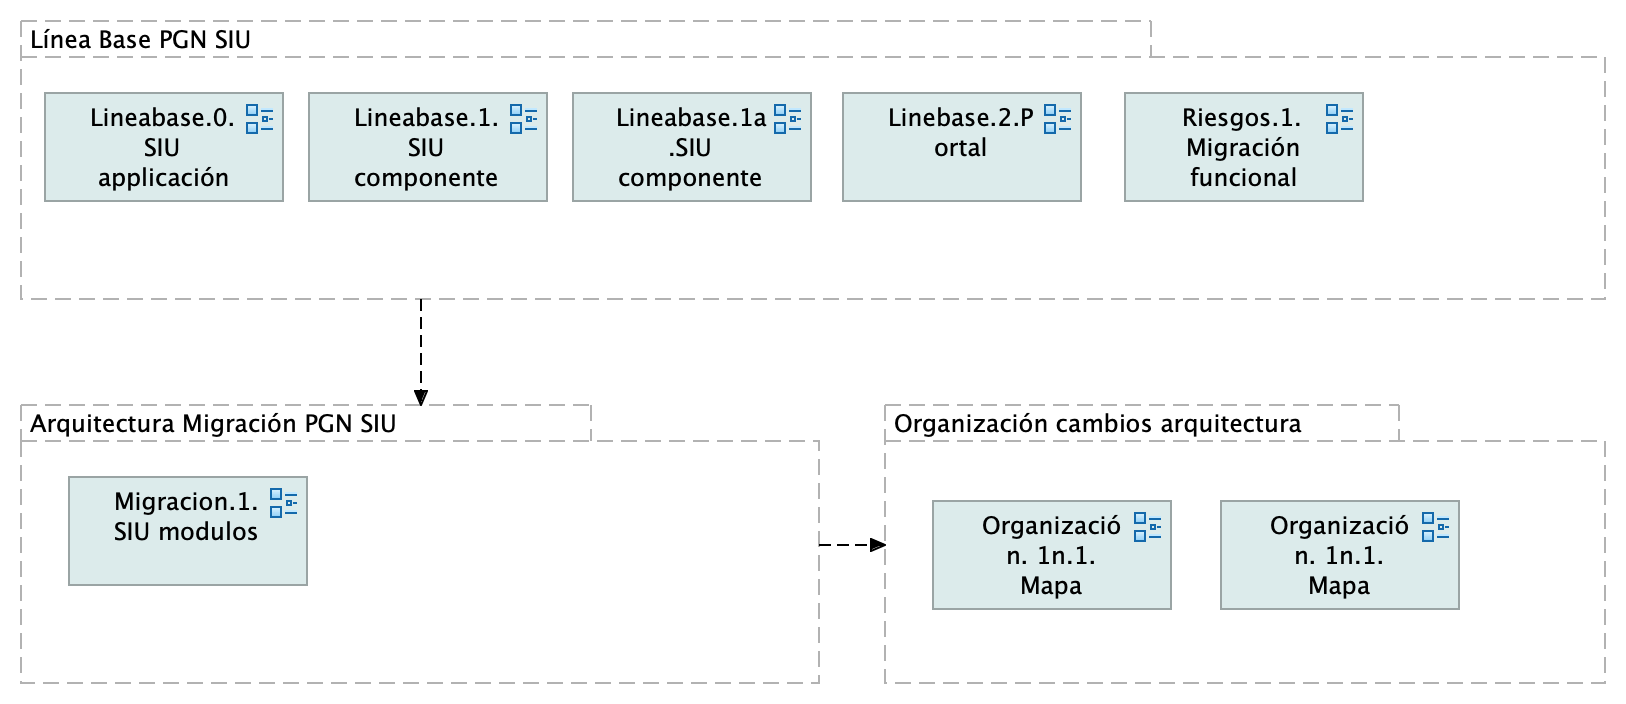
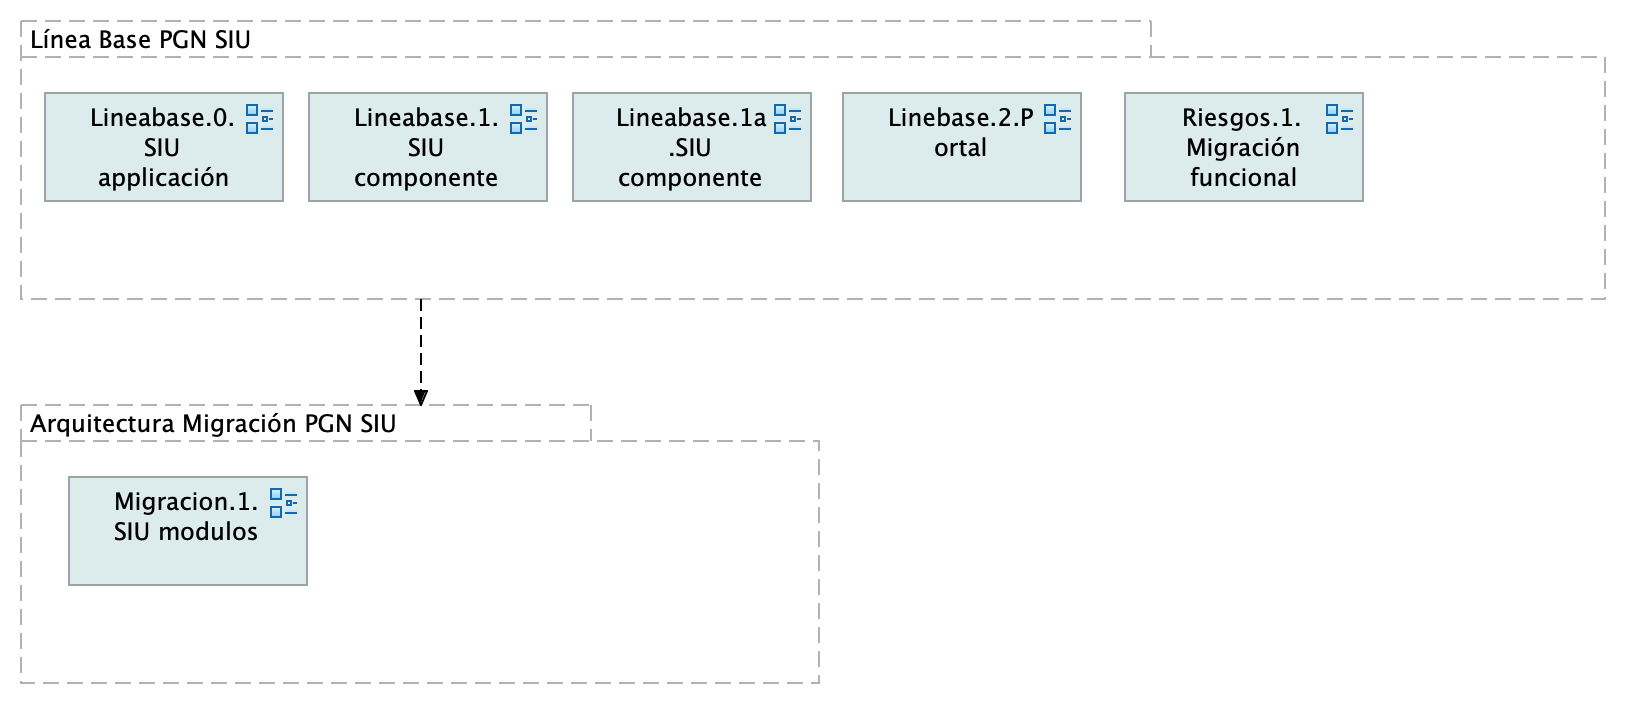
html

Changed region(s): [[0.5228, 0.6875, 0.9225, 0.875], [0.5535, 0.5938, 0.7995, 0.625]]

diff --git a/id-6a1303f9965b41ffa23b214651da8ebe/views/id-8529b704aafa4c9caf3ab4d087c54c5b.html b/id-6a1303f9965b41ffa23b214651da8ebe/views/id-8529b704aafa4c9caf3ab4d087c54c5b.html
@@ -34,12 +34,6 @@
 		    <!-- If this is a digram model (has children and no bounds) show the image -->
 			   <img class="diagram" src="../images/id-8529b704aafa4c9caf3ab4d087c54c5b.png" alt="Documento de Arquitectura Migración SIU" usemap="#id-8529b704aafa4c9caf3ab4d087c54c5bmap"/>
 			   <map name="id-8529b704aafa4c9caf3ab4d087c54c5bmap">
-				  				<area shape="rect" coords="1220,500,1460,610" href="../views/id-2dff7e836da042a9a55c3c635828070e.html"  target="view">
-				  		    <!-- Other diagram objects -->
-				  				<area shape="rect" coords="932,500,1172,610" href="../views/id-2dff7e836da042a9a55c3c635828070e.html"  target="view">
-				  		    <!-- Other diagram objects -->
-
-				  		<area shape="rect" coords="884,404,1606,684" href="../elements/id-0e4a249c7944477e88692b5e7534a9c8.html"  target="element">
 				  				<area shape="rect" coords="68,476,308,586" href="../views/id-6dcada718c1446f69884dc7418828c51.html"  target="view">
 				  		    <!-- Other diagram objects -->
 
@@ -147,24 +141,6 @@
 											    <!-- Other graphical objects -->
 
 											
-											<tr>
-											    <td> <a href="../elements/id-0e4a249c7944477e88692b5e7534a9c8.html" target="element"> Organizaci&#243;n cambios arquitectura </a> </td>
-											    <td> <a href="../elements/id-0e4a249c7944477e88692b5e7534a9c8.html" target="element" class="i18n-elementtype-Grouping"> </a> </td>
-											</tr>
-
-													<tr>
-													    <td> <a href="../views/id-2dff7e836da042a9a55c3c635828070e.html" target="view"> Organización. 1n.1. Mapa producto PGN. Relatoría </a> </td>
-													    <td> <a href="../views/id-2dff7e836da042a9a55c3c635828070e.html" target="view" class="i18n-viewpoint-"> </a> </td>
-													</tr>
-											    <!-- Other graphical objects -->
-
-													<tr>
-													    <td> <a href="../views/id-2dff7e836da042a9a55c3c635828070e.html" target="view"> Organización. 1n.1. Mapa producto PGN. Relatoría </a> </td>
-													    <td> <a href="../views/id-2dff7e836da042a9a55c3c635828070e.html" target="view" class="i18n-viewpoint-"> </a> </td>
-													</tr>
-											    <!-- Other graphical objects -->
-
-											
 
 								</tbody>
 							</table>
@@ -193,16 +169,6 @@
 													<!-- DEBUG: Skipping element from class com.archimatetool.model.impl.DiagramModelReference -->
 													<!-- DEBUG: Skipping element from class com.archimatetool.model.impl.DiagramModelReference -->
 											
-																	<tr>
-																		<td> <a href="../elements/id-c5b22b9ef4c548a686b307b818b60eb3.html" target="element">  </a> </td>
-																		<td> <a href="../elements/id-c5b22b9ef4c548a686b307b818b60eb3.html" target="element" class="i18n-elementtype-FlowRelationship"></a> </td>
-																		<td> <a href="../elements/id-86cf62dcda0447b78fd8e5946212edfc.html" target="element"> Arquitectura Migraci&#243;n PGN SIU </a> </td>
-																		<td> <a href="../elements/id-0e4a249c7944477e88692b5e7534a9c8.html" target="element"> Organizaci&#243;n cambios arquitectura </a> </td>
-																	</tr>
-
-													<!-- DEBUG: Skipping element from class com.archimatetool.model.impl.DiagramModelReference -->
-											
-													<!-- DEBUG: Skipping element from class com.archimatetool.model.impl.DiagramModelReference -->
 													<!-- DEBUG: Skipping element from class com.archimatetool.model.impl.DiagramModelReference -->
 											
 

diff --git a/id-6a1303f9965b41ffa23b214651da8ebe/elements/model.html b/id-6a1303f9965b41ffa23b214651da8ebe/elements/model.html
@@ -100,7 +100,7 @@ versi&#243;n 0.1
 						 	var dataFolders = [ ];
 						 	var dataFoldersContent = [ ];
 
-							dataFolders.push({id:"id-6a1303f9965b41ffa23b214651da8ebe", type:"DBArchimateModel", name:decodeURL("PGN-078"), documentation:decodeURL("")});
+							dataFolders.push({id:"id-6a1303f9965b41ffa23b214651da8ebe", type:"ArchimateModel", name:decodeURL("PGN-078"), documentation:decodeURL("")});
 								dataFoldersContent.push({folderid:"id-6a1303f9965b41ffa23b214651da8ebe", contentid:"id-c583db99ab314cc0bbe51d158401fb63", contenttype:"Folder"});
 								dataFolders.push({id:"id-c583db99ab314cc0bbe51d158401fb63", type:"Folder", name:decodeURL("Strategy"), documentation:decodeURL("")});
 									dataFoldersContent.push({folderid:"id-c583db99ab314cc0bbe51d158401fb63", contentid:"id-d254dad2ea664b798030c3d91c7fc8ed", contenttype:"Capability"});
@@ -1995,7 +1995,7 @@ versi&#243;n 0.1
 
 
 									dataFoldersContent.push({folderid:"id-0ee4bc0b58684894a78c5efa8b45c7f4", contentid:"id-280f63efee9b49e892eb38e7104d2d85", contenttype:"ArchimateDiagramModel"});
-										dataViews.push({id:"id-280f63efee9b49e892eb38e7104d2d85", type:"ArchimateDiagramModel", name:decodeURL("Seguridad.+Lineabase.0.SIU+applicaci%C3%B3n"), documentation:decodeURL("%23+Representaci%C3%B3n+Arquitect%C3%B3nica%0ACon+una+arquitectura+orientada+a+servicios+SUI+recopila%3A%0A%0A1.+Runtime%3A+Es+el+servicio+que+interact%C3%BAa+con+el+usuario+final+%28GUI%29+elaborado+en+Angular+11%0A1.+API+Tx%3A+Servicio+api+rest+base+node+encargado+de+realizar+las+transacciones+b%C3%A1sicas+CRUD%0A1.+API+Config+%2F+Seguridad.+Servicio+Web+API+.Net+Framework+encargado+de+gestionar+caracter%C3%ADsticas+con+la+autenticaci%C3%B3n+y+configuraci%C3%B3n%0A%0A%0A")});
+										dataViews.push({id:"id-280f63efee9b49e892eb38e7104d2d85", type:"ArchimateDiagramModel", name:decodeURL("Seguridad.+Lineabase.0.SIU+applicaci%C3%B3n"), documentation:decodeURL("%23%23+Representaci%C3%B3n+Arquitect%C3%B3nica%0ACon+una+arquitectura+orientada+a+servicios+SUI+recopila%3A%0A%0A1.+Runtime%3A+Es+el+servicio+que+interact%C3%BAa+con+el+usuario+final+%28GUI%29+elaborado+en+Angular+11%0A1.+API+Tx%3A+Servicio+api+rest+base+node+encargado+de+realizar+las+transacciones+b%C3%A1sicas+CRUD%0A1.+API+Config+%2F+Seguridad.+Servicio+Web+API+.Net+Framework+encargado+de+gestionar+caracter%C3%ADsticas+con+la+autenticaci%C3%B3n+y+configuraci%C3%B3n%0A%0A%0A")});
 												dataViewsContent.push({viewid:"id-280f63efee9b49e892eb38e7104d2d85", contentid:"id-57f66661f97140a6a4938a70315ad2ed", contenttype:"ApplicationCollaboration"});
 														dataViewsContent.push({viewid:"id-280f63efee9b49e892eb38e7104d2d85", contentid:"id-e759a68c6338464093793b86acdf7668", contenttype:"ApplicationService"});
 														dataViewsContent.push({viewid:"id-280f63efee9b49e892eb38e7104d2d85", contentid:"id-ac6d42077e3544ae8f7c9d7bd5daf461", contenttype:"ApplicationService"});

diff --git a/id-6a1303f9965b41ffa23b214651da8ebe/views/id-d58fdcecc4f542a39dce288e81a395ae.html b/id-6a1303f9965b41ffa23b214651da8ebe/views/id-d58fdcecc4f542a39dce288e81a395ae.html
@@ -33,11 +33,11 @@
 		    <!-- If this is a digram model (has children and no bounds) show the image -->
 			   <img class="diagram" src="../images/id-d58fdcecc4f542a39dce288e81a395ae.png" alt="Riesgos.1. Migración funcional" usemap="#id-d58fdcecc4f542a39dce288e81a395aemap"/>
 			   <map name="id-d58fdcecc4f542a39dce288e81a395aemap">
-				  				<area shape="rect" coords="356,260,596,370" href="../elements/id-f436fda702af4b788de6d396190dd27c.html"  target="element">
-				  				<area shape="rect" coords="68,260,308,370" href="../elements/id-879a66c00d5e412aa41a0ddd29d22d4a.html"  target="element">
-				  				<area shape="rect" coords="644,116,884,226" href="../elements/id-1fb4e3ab704b4258a61fb7e6dc93257c.html"  target="element">
-				  				<area shape="rect" coords="356,116,596,226" href="../elements/id-03044edb5802459ea7e99388eb7fd91d.html"  target="element">
-				  				<area shape="rect" coords="68,116,308,226" href="../elements/id-c462161b43914252aed5768fd1ba3a2f.html"  target="element">
+				  				<area shape="rect" coords="332,260,596,370" href="../elements/id-f436fda702af4b788de6d396190dd27c.html"  target="element">
+				  				<area shape="rect" coords="44,260,308,370" href="../elements/id-879a66c00d5e412aa41a0ddd29d22d4a.html"  target="element">
+				  				<area shape="rect" coords="620,116,884,226" href="../elements/id-1fb4e3ab704b4258a61fb7e6dc93257c.html"  target="element">
+				  				<area shape="rect" coords="332,116,596,226" href="../elements/id-03044edb5802459ea7e99388eb7fd91d.html"  target="element">
+				  				<area shape="rect" coords="44,116,308,226" href="../elements/id-c462161b43914252aed5768fd1ba3a2f.html"  target="element">
 
 				  		<area shape="rect" coords="20,20,960,476" href="../elements/id-a3b3d4e30813420082d1b354996c0b18.html"  target="element">
 

diff --git a/id-6a1303f9965b41ffa23b214651da8ebe/views/id-64947c69f63c422e9f18c81763910332.html b/id-6a1303f9965b41ffa23b214651da8ebe/views/id-64947c69f63c422e9f18c81763910332.html
@@ -33,7 +33,7 @@
 		    <!-- If this is a digram model (has children and no bounds) show the image -->
 			   <img class="diagram" src="../images/id-64947c69f63c422e9f18c81763910332.png" alt="Linebase.2.Portal" usemap="#id-64947c69f63c422e9f18c81763910332map"/>
 			   <map name="id-64947c69f63c422e9f18c81763910332map">
-				  		<area shape="rect" coords="1172,86,1412,196" href="../elements/id-fb36797778314007bb1d59c239153fe7.html"  target="element">
+				  		<area shape="rect" coords="1196,86,1436,196" href="../elements/id-fb36797778314007bb1d59c239153fe7.html"  target="element">
 				  				<area shape="rect" coords="764,92,1004,202" href="../elements/id-79ca8712c86b46ffa7f0f4ee08fa7326.html"  target="element">
 				  				<area shape="rect" coords="428,92,668,202" href="../elements/id-37c2212d62c342ea97d70e019f6e597a.html"  target="element">
 				  				<area shape="rect" coords="96,92,336,202" href="../elements/id-adb0b38c9b2942c198cc723156e06f36.html"  target="element">

diff --git a/id-6a1303f9965b41ffa23b214651da8ebe/views/id-280f63efee9b49e892eb38e7104d2d85.html b/id-6a1303f9965b41ffa23b214651da8ebe/views/id-280f63efee9b49e892eb38e7104d2d85.html
@@ -89,7 +89,7 @@
 				<!-- Tab panes -->
 				<div class="tab-content">
 					<div role="tabpanel" class="tab-pane active" id="documentation">
-						<div class="convertlinks documentation" style="white-space:pre-wrap"># Representaci&#243;n Arquitect&#243;nica
+						<div class="convertlinks documentation" style="white-space:pre-wrap">## Representaci&#243;n Arquitect&#243;nica
 Con una arquitectura orientada a servicios SUI recopila:
 
 1. Runtime: Es el servicio que interact&#250;a con el usuario final (GUI) elaborado en Angular 11
